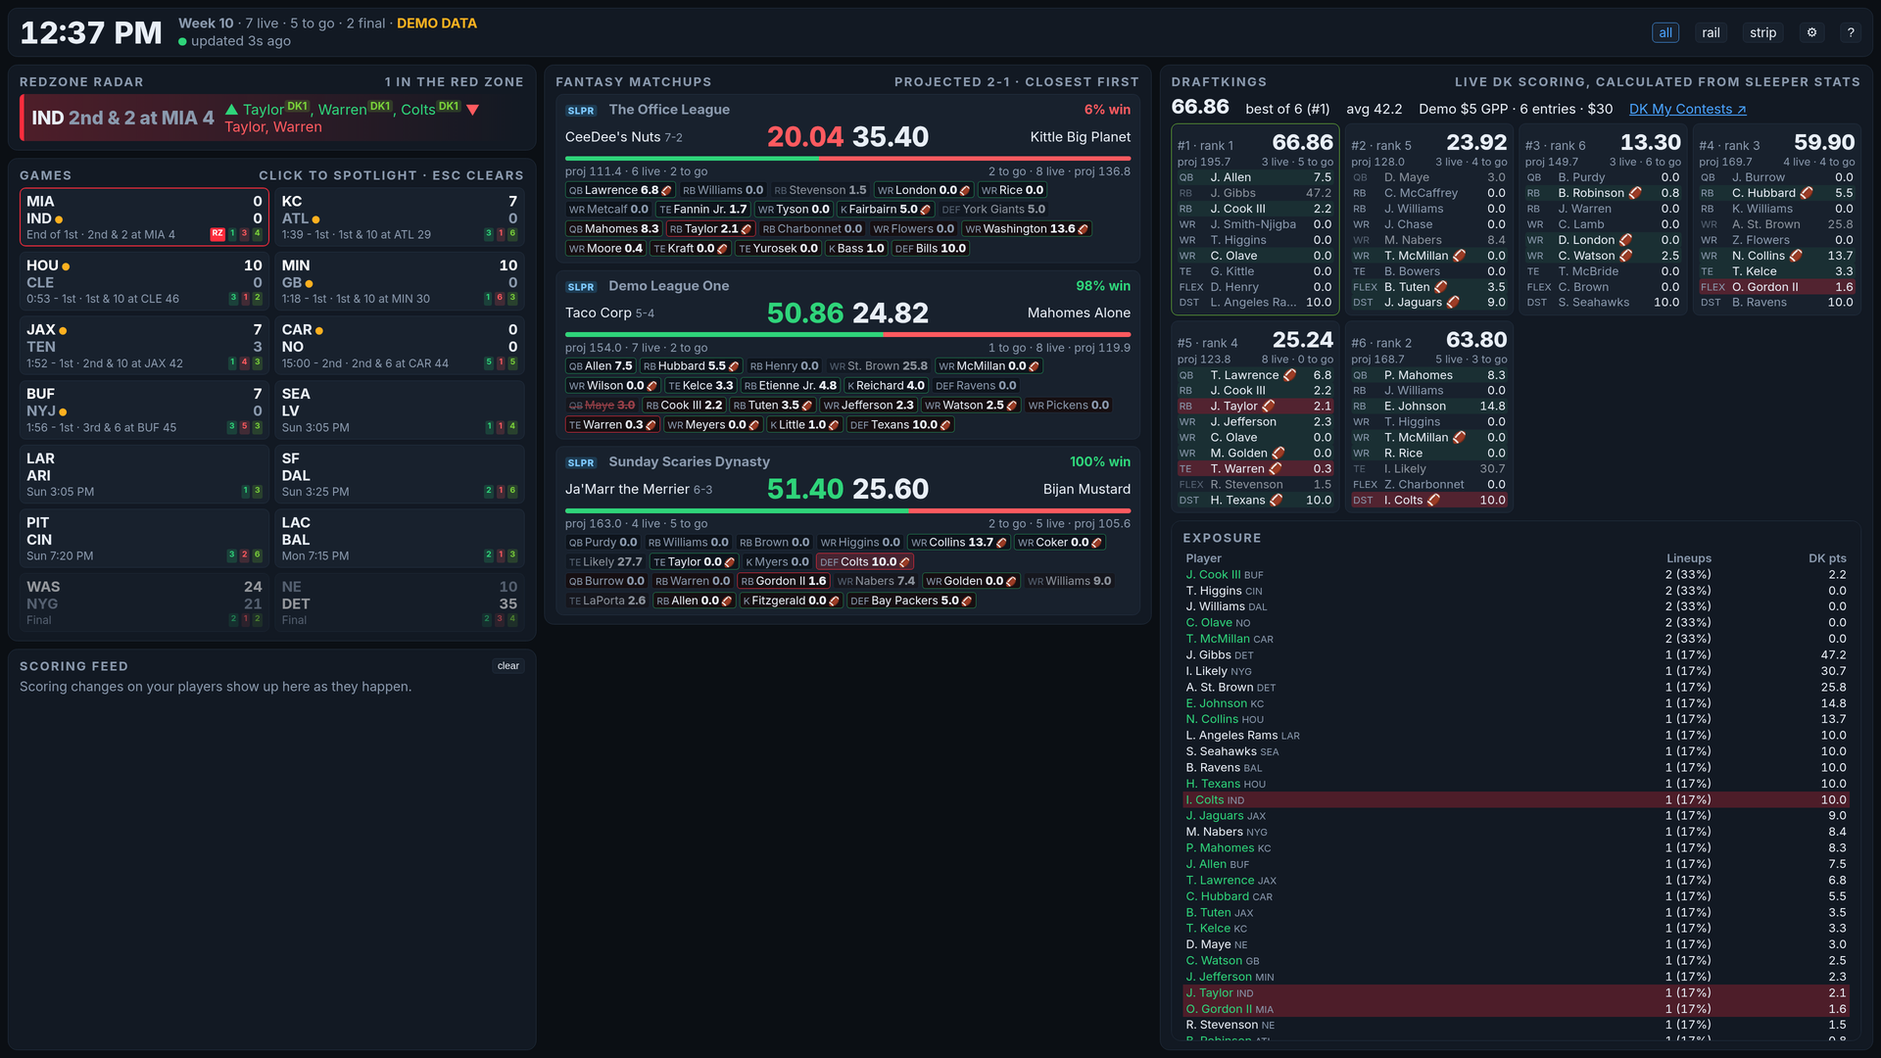
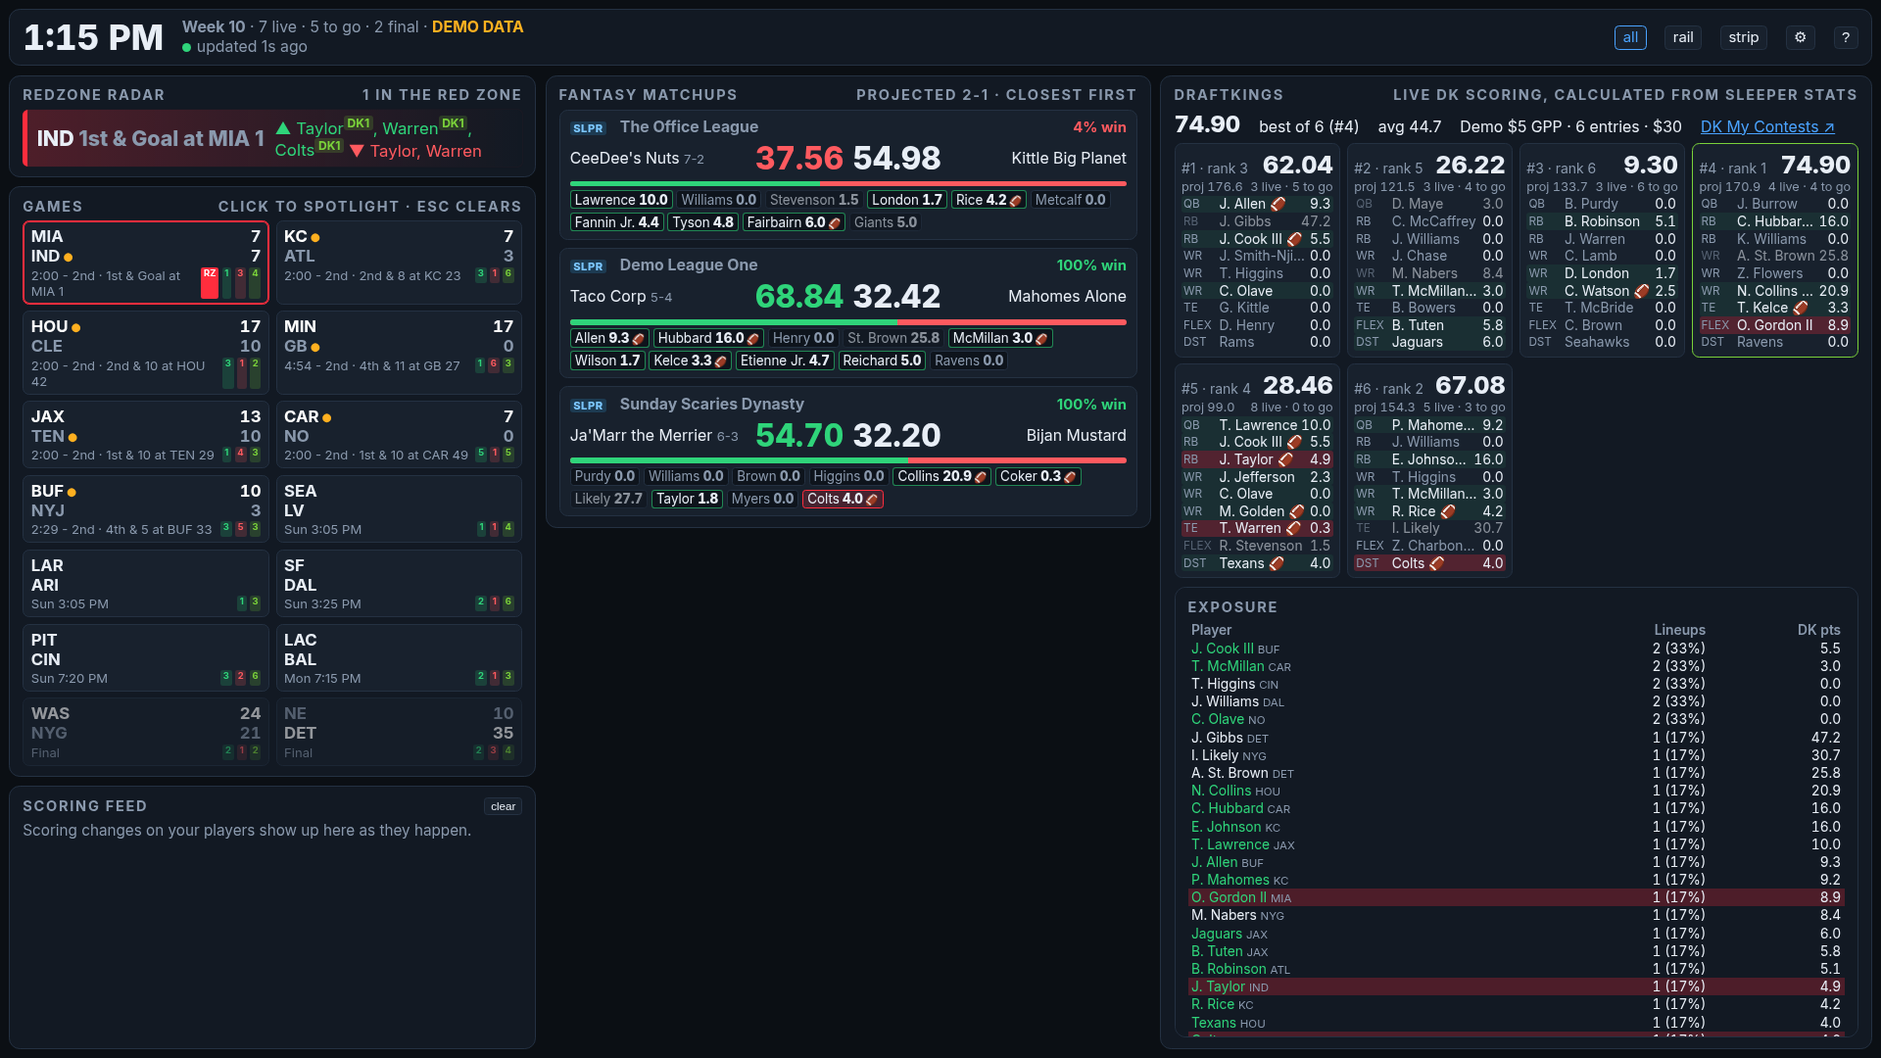
Docs: DKEntries.csv path, proxy origins, cookie storage, undocumented feeds; real 4K layout render, fresh demo screenshot

Changed region(s): [[0.0, 0.0, 1.0, 1.0], [0.0, 0.7333, 0.25, 0.7944]]

diff --git a/SETUP.md b/SETUP.md
@@ -50,7 +50,9 @@ Open <https://ewo8om3.github.io/sunday-command-center/>. Bookmark it, or install
 
 1. On the GitHub repo page, click **Code → Download ZIP**.
 2. Unzip it anywhere, e.g. `Documents\sunday-command-center`.
-3. Double-click `index.html`. It opens in your default browser as a `file://` page.
+3. Double-click `index.html`. It opens in your default browser as a `file://` page. (For private ESPN leagues
+   through the proxy, serve the folder as below instead; the proxy doesn't answer `file://` pages unless you
+   opt in, see §1.D.)
 
 Settings are saved per browser *and* per address, so the zip copy and the GitHub Pages copy have separate
 settings.
@@ -99,6 +101,14 @@ It's one Python file (`proxy/espn_proxy.py`) with no dependencies. It runs only 
 **Check it:** Settings → ESPN → *Private ESPN league* → **Test proxy** should say *proxy OK*. You can also open
 <http://localhost:8766/health> in your browser.
 
+**Who it answers:** only pages served from `https://ewo8om3.github.io`, `http://localhost:<any port>` and
+`http://127.0.0.1:<any port>`. Any other website open in your browser gets `403`, so it can't use your cookies.
+- Your own fork on GitHub Pages: start it with `SCC_ALLOWED_ORIGINS=https://yourname.github.io` (Windows
+  PowerShell: `$env:SCC_ALLOWED_ORIGINS="https://yourname.github.io"; py -3 espn_proxy.py`), or add
+  `"allowed_origins": ["https://yourname.github.io"]` to `proxy/config.json`.
+- `index.html` opened straight from disk (`file://`): set `SCC_ALLOW_FILE=1` or `"allow_file_origin": true` in
+  `config.json`. Serving the folder with `python3 -m http.server 8000` is safer and needs no opt-in.
+
 Stop it by closing the window or pressing `Ctrl+C`. Cookie setup is in [§7](#7-connecting-leagues).
 
 ---
@@ -109,7 +119,7 @@ Stop it by closing the window or pressing `Ctrl+C`. Cookie setup is in [§7](#7-
 |---|---|---|---|
 | **all** | `index.html` or `?view=all` | everything: radar, games, feed, fantasy, DK | a full monitor or a big zone |
 | **rail** | `?view=rail` | header, RedZone radar, games, fantasy matchups, scoring feed | tall and narrow (portrait-ish) |
-| **strip** | `?view=strip` | DraftKings lineups + exposure | wide and short |
+| **strip** | `?view=strip` | DraftKings lineups + exposure, with its own status dot and ⚙ button | wide and short |
 
 Add `&demo=1` to any of them for fake data. You can open the same view in several windows, and they all share
 the same settings.
@@ -164,7 +174,9 @@ No DK window? Make the strip 2560 × 720 (66.67% × 33.33%). Display preset: **4
 | Strip | 0, 1008 | 1195 × 432 | 46.67% × 30% |
 | DK My Contests (optional) | 1195, 1008 | 597 × 432 | 23.33% × 30% |
 
-Display preset: **1440p**. If the strip text is too small, skip the DK window and give the strip 70% × 30%.
+Display preset: **1440p**. In a strip this short, the DK panel shows one line per lineup (rank, points,
+projection, players) instead of side-by-side cards, so the text stays readable (about 16 px). Want the full cards?
+Skip the DK window and give the strip 70% × 30%.
 
 ### 3.3 Single 1080p monitor (1920×1080)
 
@@ -174,7 +186,9 @@ Display preset: **1440p**. If the strip text is too small, skip the DK window an
 | Rail | 1440, 0 | 480 × 1080 | 25% × 100% |
 | Strip | 0, 810 | 1440 × 270 | 75% × 25% |
 
-Display preset: **1080p** (compact). At 1080p, skip the separate DK window and check DK on your phone.
+Display preset: **1080p** (compact). The 270-px-tall strip shows one line per lineup (rank, points, projection,
+players; about 17 px text) rather than side-by-side cards, which would be too small to read here. At 1080p, skip
+the separate DK window and check DK on your phone.
 Alternative: RedZone **fullscreen** on the TV or monitor, with the dashboard on a second device (see 3.7/3.8).
 
 ### 3.4 Ultrawide 21:9 (3440×1440 or 2560×1080)
@@ -457,13 +471,15 @@ If **Load teams** says the league is private, the dashboard needs your two ESPN 
    `{ABCDEF12-3456-...}`, braces included).
 5. Click **Load teams** again → pick your team → **Add**.
 
-Alternative: copy `proxy/config.example.json` to `proxy/config.json` and put the values there. Then the page
-doesn't need them.
+**Safer alternative (recommended):** copy `proxy/config.example.json` to `proxy/config.json` and put the values
+there, and leave the boxes in the page empty. Then the cookies never sit in the browser at all.
 
 > **Security note:** `espn_s2` and `SWID` act like a logged-in session for **your ESPN account**. Anyone who has
 > them can read your leagues, and possibly do more, as you. Never post them, screenshot them, commit them or share
-> them with your buddies. Each person uses their own. In the dashboard they're stored only in your browser's
-> `localStorage` and are only sent to the proxy on `localhost`. `proxy/config.json` is git-ignored. To revoke them,
+> them with your buddies. Each person uses their own. If you paste them into the page, they're stored in your
+> browser's `localStorage` for that page's address and sent only to a proxy at `localhost` / `127.0.0.1` (the page
+> refuses any other Proxy address). On the hosted GitHub Pages copy that storage is shared by every project page
+> under the same `github.io` account, so `proxy/config.json` is the safer place. It's git-ignored. To revoke them,
 > sign out of ESPN on all devices (or change your password), which invalidates the cookies. They also expire on
 > their own after a while, so re-copy them if private leagues stop loading.
 
@@ -482,7 +498,7 @@ Settings → **DraftKings lineups** → drop files on the box (or **browse**), o
 
 | Source | How to get it | What it adds |
 |---|---|---|
-| **Entries export (best)** | DraftKings website → *My Contests* → *Upcoming* (before lock) or *Live* → the export / download CSV option for NFL Classic entries | lineups + contest name, fee, entry IDs + a player/team table |
+| **Entries file `DKEntries.csv` (best)** | DraftKings website (desktop) → **Lineups** → **Edit Entries** → pick the NFL slate → **Download**. DK renames menus from time to time; you want the bulk "edit entries" download, which is the same file you'd upload back to DK. | lineups + contest name, fee, entry IDs + a player/team table |
 | **Upload CSV** | the file you edit for DK's bulk lineup upload (`QB,RB,RB,WR,WR,WR,TE,FLEX,DST` with `Name (ID)` cells) | lineups |
 | **DKSalaries.csv** (optional) | contest lobby → the contest → *Export to CSV* / download player list | exact teams + salaries for matching |
 | **Paste** | one lineup per line: `Name (ID), Name (ID), …` in QB, RB, RB, WR, WR, WR, TE, FLEX, DST order | lineups |
@@ -492,16 +508,23 @@ to swap in a new set, or untick it to add to what's there.
 
 If the DK panel lists any **unmatched** players, add DKSalaries.csv so the dashboard knows their teams.
 
+After kickoff DraftKings is reported to tag started players as `Name (ID) (LOCKED)`. Tags like that are ignored.
+If a slot still can't be read (empty, or a format the dashboard doesn't know), the lineup is kept, the import
+message lists the slot, and the lineup shows **⚠ N missing** with the panel saying **incomplete**, because its
+total is too low until you re-export or paste it.
+
 ### Refreshing each week
 
 1. After you finalize lineups (or after late swap), export again from DK.
 2. Settings → DraftKings → drop the new file with **replace existing lineups** ticked.
 3. Settings → **Clear DK data** wipes old lineups if you're not playing DFS that week.
 
-The feed and the live scoring reset with the NFL week automatically. Only the lineups need re-importing.
+The feed and the live scoring reset with the NFL week automatically (the feed is saved per season and week, so
+the first load of a new week starts empty). Only the lineups need re-importing.
 
 What the DK panel shows: live DK Classic points calculated from Sleeper's stats (including the 300/100/100 yard
-bonuses and DST points-allowed tiers), your best lineup, ranks among your own entries, players live / to go, and
+bonuses, defensive and special-teams fumble recoveries, and DST points-allowed tiers, which only count once that
+DST's game has kicked off, so a DST shows 0 until then), your best lineup, ranks among your own entries, players live / to go, and
 exposure. **Contest standings and payouts are only on DraftKings**, which is what the optional DK My Contests
 window is for.
 
@@ -511,9 +534,13 @@ window is for.
 
 | Symptom | Fix |
 |---|---|
-| **Red status dot / "Failed to fetch"** | Something blocked a request. Check your internet connection, then disable ad/tracker blockers *for this page* (uBlock, Privacy Badger, Brave Shields, a Pi-hole, a corporate firewall). The page needs `api.sleeper.app`, `api.sleeper.com`, `site.api.espn.com` and (ESPN leagues) `lm-api-reads.fantasy.espn.com`. |
+| **Amber status dot / "data 40s old · failing: …"** | One feed is failing, so part of the page is showing older data. The line names the feed and shows the real age. It retries on its own (slower after repeated errors). |
+| **Red status dot / "OFFLINE" / "Failed to fetch"** | Nothing fresh is getting through. Something blocked the requests. Check your internet connection, then disable ad/tracker blockers *for this page* (uBlock, Privacy Badger, Brave Shields, a Pi-hole, a corporate firewall). The page needs `api.sleeper.app`, `api.sleeper.com`, `site.api.espn.com` and (ESPN leagues) `lm-api-reads.fantasy.espn.com`. |
 | **"scores: fallback (no clock / red zone)"** | ESPN's scoreboard was unreachable, so scores come from Sleeper's schedule. Usually temporary. If it persists, an extension or network is blocking `site.api.espn.com`. |
-| **Stale data / "updated 90s ago"** | The tab was asleep. Bring the window forward, press `r` to refresh now, and exclude the site from Memory Saver / Sleeping tabs (§6). |
+| **Stale data / "paused (tab hidden)"** | The tab was hidden or asleep; it refreshes as soon as it's visible again. Press `r` to refresh now, and exclude the site from Memory Saver / Sleeping tabs (§6). |
+| **"next refresh 5 min (no games live)"** | Normal. With no game live it checks every 5 minutes (every minute on game days before kickoff), then switches back to your refresh rate. Press `r` any time. |
+| **DK "⚠ incomplete" / "N missing"** | A lineup slot couldn't be read from the file (see §8). Re-export `DKEntries.csv`, or paste that lineup. |
+| **Proxy says "origin or host not allowed"** | The page isn't on an allowed address (§1.D). Use the GitHub Pages link or `http://localhost`, or add your fork's address. |
 | **Player shows 0 while you can see he scored** | The live stats feed can lag a play or two. Give it 15–30 s. Stat corrections after games can change totals. |
 | **ESPN 401 / "private league"** | The league is private. Follow §7 ESPN private league. Check the **season** is right (a league ID from last year with this year's season, or the reverse, gives 401/404). |
 | **ESPN "rejected your espn_s2/SWID"** | The cookies expired or were copied wrong (SWID needs its `{braces}`). Re-copy both. |
@@ -542,7 +569,13 @@ pages. Run the stream in its own window next to it (§5).
 **Are the DraftKings points official?** No. They're calculated from live Sleeper stats with DK Classic scoring
 rules, and are usually spot-on during games. Your official score, rank and winnings are only on DraftKings.
 
-**Does it support Yahoo, NFL Fantasy, CBS, FanDuel or DK Showdown?** Not yet. Sleeper, ESPN and DK Classic only.
+**Does it support Yahoo, NFL Fantasy, CBS, FanDuel or DK Showdown?** Not yet. Sleeper, ESPN and DK Classic.
+Showdown files import with the 1.5× captain applied, but kickers score 0, so treat Showdown totals as rough.
+
+**Will the data feeds keep working?** Hopefully, but no promises. Only Sleeper's `api.sleeper.app/v1` API is
+officially documented. Sleeper's stats, projections and schedule feeds and both ESPN APIs are undocumented and can
+change or be blocked at any time. The dashboard keeps its traffic light (slower when nothing is live) to stay a
+polite client.
 
 **Can my buddies use it?** Yes. Send them the GitHub Pages link. Everyone enters their own leagues, and nothing is
 shared between people.

diff --git a/README.md b/README.md
@@ -26,12 +26,15 @@ and troubleshooting.
   Sleeper projections follow each league's PPR / half / standard setting. ESPN cards use ESPN's own league
   scoring, live projection and win probability. Closest matchups are listed first.
 - **DraftKings lineups**: import your entries CSV, upload CSV or pasted lineups. Live **DK Classic scoring**
-  is calculated from Sleeper's live stats (300/100/100 bonuses, DST points-allowed tiers), with best lineup,
-  ranks across your entries, players still to play and an exposure table.
+  is calculated from Sleeper's live stats (300/100/100 bonuses, defensive and special-teams fumble recoveries,
+  DST points-allowed tiers once the DST's game has kicked off), with best lineup, ranks across your entries,
+  players still to play and an exposure table. Slots it can't read are flagged, never silently dropped.
 - **Scoring feed + toasts**: every scoring change on a player you care about, tagged by whether it helps
   or hurts you, with a big banner for touchdowns. Sound is optional.
 - **Layouts**: `all` (one window), `rail` (tall right column) and `strip` (bottom bar) views, plus
   **Display size** presets (Auto / 1080p / 1440p / 4K) that tune fonts, density and the window split.
+- **Honest status dot**: green only when every feed refreshed recently. If a feed fails, the dot turns amber
+  (or red when nothing is getting through) and shows the real age of the data and which feed is failing.
 - **Private by design**: your Sleeper username, ESPN leagues and lineups stay in your browser's `localStorage`.
   Nothing gets uploaded, and there are no API keys.
 
@@ -51,7 +54,10 @@ First run opens **Settings**:
    **ESPN**: paste a league ID (or the whole league URL), check the season → *Load teams* → pick your team →
    *Add*. Repeat for as many leagues as you like. Private league? See below.
 2. **DraftKings**: drop in one or more CSVs:
-   - *Best:* DK → My Contests → Upcoming → **Export to CSV**. This includes contest names, fees and a player/team table.
+   - *Best:* your entries file, **`DKEntries.csv`**. On the DraftKings website: **Lineups → Edit Entries** → pick
+     the slate → **Download** (DK sometimes renames these menus; it's the bulk "edit entries" download, not the
+     lobby's player list). It includes contest names, fees and a player/team table. Players tagged
+     `(LOCKED)` after kickoff are read normally, and any slot that can't be read is listed as a warning.
    - Your bulk **upload CSV** (`QB,RB,RB,WR,WR,WR,TE,FLEX,DST` with `Name (ID)` cells).
    - Optional: **DKSalaries.csv** from the contest lobby (adds teams/salaries for exact matching).
    - Or paste lineups, one per line: `Name (ID), Name (ID), …`
@@ -81,9 +87,17 @@ click Allow.
 2. Open DevTools (`F12`, or `Cmd`+`Opt`+`I` on Mac) → **Application** tab (Firefox: **Storage**) → **Cookies** →
    `https://fantasy.espn.com`.
 3. Copy the **Value** of `espn_s2` (a long string) and `SWID` (looks like `{XXXXXXXX-XXXX-…}`, braces included).
-4. Paste both into Settings → ESPN → *Private ESPN league*. They're saved in this browser's `localStorage` and
-   are only ever sent to the proxy on `localhost`. Or put them in `proxy/config.json` instead (copy
-   `config.example.json`; the real file is git-ignored).
+4. **Recommended:** put them in `proxy/config.json` (copy `config.example.json`; the real file is git-ignored)
+   and leave the boxes in the page empty.
+   Or paste both into Settings → ESPN → *Private ESPN league*. Then they're saved in this browser's
+   `localStorage` for the page's address and sent only to a proxy at `localhost` / `127.0.0.1` (the page
+   refuses any other Proxy address). On the hosted copy, that storage is shared by every project page under
+   `ewo8om3.github.io`, which is why `config.json` (or running the page locally) is the safer place for them.
+
+The proxy only answers pages from `https://ewo8om3.github.io`, `http://localhost:*` and `http://127.0.0.1:*`
+and refuses every other website. Hosting your own fork? Add its address with `SCC_ALLOWED_ORIGINS` or
+`"allowed_origins"` in `config.json` (see [`proxy/README.md`](proxy/README.md)). Opening `index.html` straight
+from disk (`file://`) needs an opt-in there too; `python3 -m http.server` is the simpler route.
 
 Treat these cookies like a password: they give read access to your ESPN account's leagues. Never commit or
 share them. They expire after a while, so re-copy them if private leagues stop loading.
@@ -91,16 +105,20 @@ share them. They expire after a while, so re-copy them if private leagues stop l
 ## Put it next to RedZone
 
 See **[SETUP.md](SETUP.md)** for step-by-step layouts on any setup, with exact zone sizes, FancyZones / Snap /
-Rectangle / macOS tiling steps, and how to get each RedZone source into its own window. The 4K default looks like this:
+Rectangle / macOS tiling steps, and how to get each RedZone source into its own window. The 4K default looks like
+this (a real 3840×2160 render with the 4K preset and demo data; the RedZone and DK boxes are placeholders):
 
-![4K layout](docs/layout-4k.png)
+![4K layout: RedZone 2560×1440 top left, rail 1280×2160 on the right, strip 1706×720 and DK window along the bottom](docs/layout-4k.png)
 
 There's also a built-in **Open layout windows** button in Settings. It pops out RedZone, rail and strip
 windows sized for your display preset (allow pop-ups for the page).
 
 ## Data sources
 
-All of these are public, keyless and CORS-enabled, so the page calls them straight from your browser:
+All of these are keyless and CORS-enabled, so the page calls them straight from your browser. **Only Sleeper's
+`api.sleeper.app/v1` API is officially documented.** Sleeper's stats/projections/schedule feeds and both ESPN APIs
+are undocumented: they can change, rate-limit or stop working at any time, and this dashboard would break with
+them. Use them lightly and respect each service's terms.
 
 | What | Source |
 |---|---|
@@ -109,7 +127,9 @@ All of these are public, keyless and CORS-enabled, so the page calls them straig
 | ESPN fantasy leagues, matchups, rosters, live points | `lm-api-reads.fantasy.espn.com/apis/v3/games/ffl` (CORS-enabled; private leagues via the optional local proxy) |
 | Scores, clock, possession, red zone | ESPN's public scoreboard (`site.api.espn.com`). If it's unreachable, falls back to Sleeper's schedule (no clock / red zone). |
 
-Refreshes every 15 s by default. These are unofficial endpoints, so they may change or rate-limit without notice.
+Refresh rate: every 15 s (your setting) while a game is live or about to kick off, every minute on game days
+before the first kickoff, every 5 minutes when nothing is on. It backs off after errors, pauses in hidden tabs,
+and gives up on any request after 12 s.
 
 ## Limitations
 
@@ -120,7 +140,12 @@ Refreshes every 15 s by default. These are unofficial endpoints, so they may cha
   DK's My Contests, which needs your login. That's why there's a link and an optional DK window in the layout.
 - ESPN: tested against public leagues. The private-league proxy path is tested end-to-end up to ESPN's auth
   check, but not yet with real cookies. IDP and custom ESPN slots show with generic labels.
-- Classic NFL contests only (no Showdown/Captain yet). IDP-only Sleeper players show without names.
+- Built for Classic NFL contests. Showdown files import with the 1.5× captain applied, but kickers score 0.
+  IDP-only Sleeper players show without names.
+- Regular season first: the postseason follows Sleeper's `season_type` but is untested and marked
+  *postseason (experimental)*.
+- The `(LOCKED)` tag DraftKings adds to started players is handled from community reports; it hasn't been
+  checked against a real post-lock DraftKings file yet.
 - Win % is a rough normal-approximation from live projections, not a model.
 
 ## Development

diff --git a/proxy/README.md b/proxy/README.md
@@ -9,5 +9,25 @@ It listens on `http://localhost:8766` (change with `SCC_PROXY_PORT`). It only ac
 `/espn/apis/v3/games/ffl/seasons/<year>/segments/0/leagues/<id>?…` and forwards those to
 `lm-api-reads.fantasy.espn.com` with your `espn_s2` + `SWID` cookies. It sends no other requests, writes no logs and stores nothing.
 
-Cookies come from the page (Settings → ESPN, sent as headers to localhost only) or from `config.json` next to
-this file (copy `config.example.json`; `config.json` is git-ignored). See the main README for how to find them.
+Cookies come from `config.json` next to this file (recommended: copy `config.example.json`; `config.json` is
+git-ignored) or from the page (Settings → ESPN, sent as headers to localhost only). See the main README for how
+to find them.
+
+**Who it answers.** Only pages from `https://ewo8om3.github.io`, `http://localhost:<port>` and
+`http://127.0.0.1:<port>`; every other website gets `403`, so a site open in another tab can't read your private
+league through it. The `Host` header must be `localhost` / `127.0.0.1` (blocks DNS rebinding), and ESPN redirects
+are never followed. To allow more:
+
+```json
+{
+  "espn_s2": "...",
+  "SWID": "{...}",
+  "allowed_origins": ["https://yourname.github.io"],
+  "allow_file_origin": false
+}
+```
+
+or the env vars `SCC_ALLOWED_ORIGINS=https://a.example,https://b.example` and `SCC_ALLOW_FILE=1`.
+`allow_file_origin` lets `index.html` opened from disk (`file://`, sent as Origin `null`) use the proxy. Leave it
+off unless you need it: sandboxed frames on any website also send `null`. Serving the folder with
+`python3 -m http.server` avoids it.
